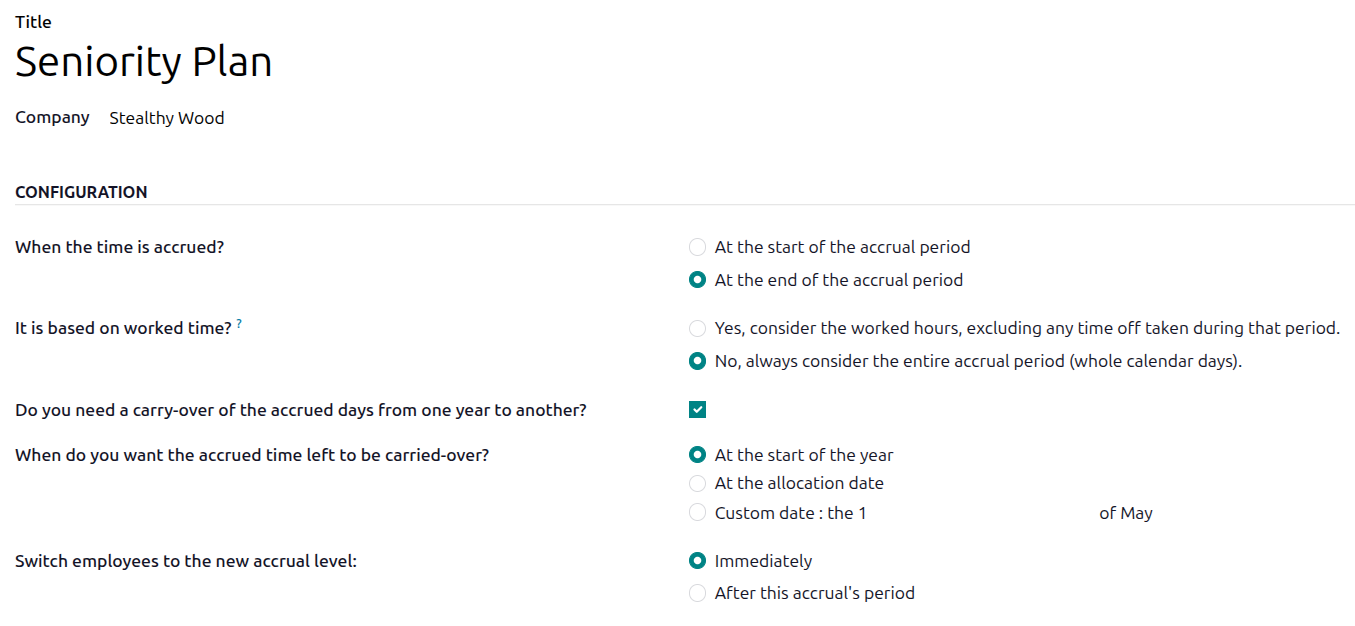
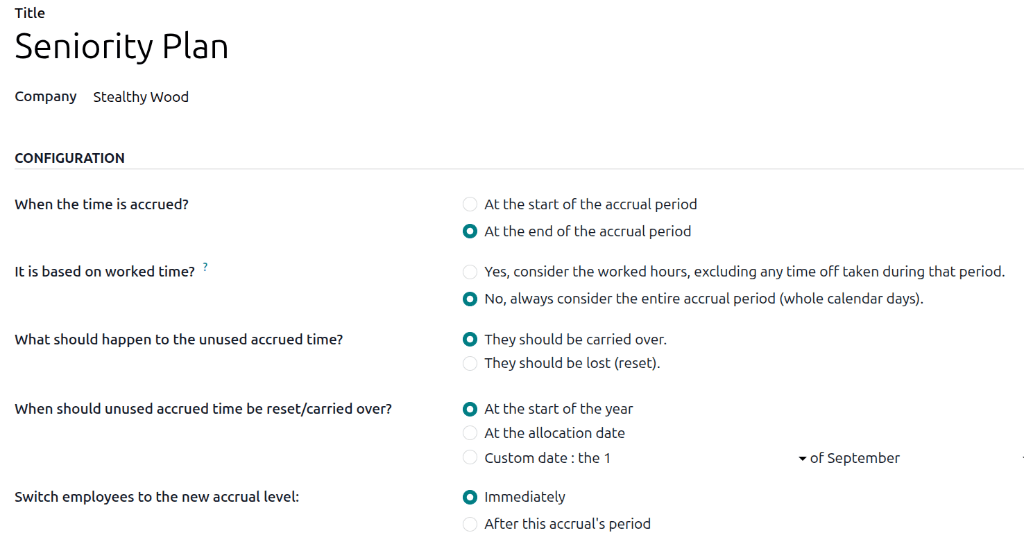
[IMP] Time Off - Accrual Plan update
closes odoo/documentation#20041

X-original-commit: 16e1b3575e4bed29c7f10ebc3ad45dd66001e73e

diff --git a/content/applications/hr/time_off/accrual_plans.rst b/content/applications/hr/time_off/accrual_plans.rst
@@ -29,20 +29,20 @@ Configuration section
 
 Configure the following fields in the *Configuration* section of the form:
 
-- :guilabel:`When the time is accrued?`: Select when the employee begins to accrue time off, either
+- :guilabel:`When the time is accrued`: Select when the employee begins to accrue time off, either
   :guilabel:`At the start of the accrual period` or :guilabel:`At the end of the accrual period`.
-- :guilabel:`It is based on worked time?`: Select how time off accrual is determined. The options
+- :guilabel:`It is based on worked time`: Select how time off accrual is determined. The options
   are:
 
-  - :guilabel:`Yes, consider the worked hours, excluding any time off taken during that period.`:
+  - :guilabel:`Yes, consider the worked hours, excluding any time off taken during that period`:
     Days **not** considered as *worked time* do **not** contribute to the accrual plan in Odoo.
-  - :guilabel:`No, always consider the entire accrual period (whole calendar days).`: Every day is
+  - :guilabel:`No, always consider the entire accrual period (whole calendar days)`: Every day is
     calculated when determining worked time, with no exclusions.
 
   .. example::
      An employee is granted time off from an accrual plan configured to accrue one day of vacation
      for every five days worked. The accrual plan is based on the employee's worked time (the
-     :guilabel:`Yes, consider the worked hours, excluding any time off taken during that period.`
+     :guilabel:`Yes, consider the worked hours, excluding any time off taken during that period`
      option is selected), which means they **only** earn vacation time for the five weekdays they
      work, *not* the entire seven-day week period.
 
@@ -55,8 +55,11 @@ Configure the following fields in the *Configuration* section of the form:
 
      As a result, the employee accrues only three vacation days that month instead of four.
 
-- :guilabel:`Do you need a carry-over of the accrued days from one year to another?`: Select when
-  the employee receives previously earned time. The options are:
+- :guilabel:`What should happen to the unused accrued time`: Select what happens to the unused
+  accrued time. The options are either :guilabel:`They should be carried over` or :guilabel:`They
+  should be lost (reset)`.
+- :guilabel:`When should unused accrued time be reset/carried over`: Select when the employee
+  receives previously accrued time. The options are:
 
   - :guilabel:`At the start of the year`: Select this if the accrual rolls over on January 1 of the
     upcoming year.
@@ -65,6 +68,10 @@ Configure the following fields in the *Configuration* section of the form:
   - :guilabel:`Custom date`: Select this option if neither of the other two options is applicable.
     Once selected, set the date using the two drop-down menus, one for the day and one for the
     month.
+
+- :guilabel:`Switch employees to the new accrual level:` Select when the employee moves to the next
+  accrual level. The options are either :guilabel:`Immediately` or :guilabel:`After this accrual's
+  period`.
 
 .. image:: accrual_plans/accrual-plan-form.png
    :alt: An accrual plan form filled out for a Seniority Plan.
@@ -75,16 +82,14 @@ Milestones
 Milestones must be created for employees to accrue time off from the accrual plan. Each milestone
 determines when and how much time off the employee earns.
 
-To create a new milestone, click the :guilabel:`Create a milestone` button and a *New Milestone*
-pop-up window loads. Then fill out the following sections on the form.
+To create the first milestone, click the :guilabel:`Create a milestone` button, or to create
+*additional* milestones, click the :guilabel:`Add a milestone` button. Both options open a *New
+Milestone* pop-up window. Fill out the following sections on the form.
 
 .. tip::
    Once milestones have been configured, click on a milestone to make edits, click the
    :icon:`fa-trash-o` :guilabel:`(Delete)` icon to delete it, or click :guilabel:`Add a milestone`
    to create additional milestones.
-
-.. image:: accrual_plans/accrual-plan-form.png
-   :alt: An accrual plan form with all the entries filled out.
 
 Accrual level options section
 ~~~~~~~~~~~~~~~~~~~~~~~~~~~~~
@@ -131,7 +136,7 @@ This section determines how much the employee earns, and when.
   to earn the time off. The options are:
 
   - :guilabel:`At allocation creation`: The time off starts accruing immediately.
-  - :guilabel:`After (#) (Time) from the start of the allocation.`: Use the first two fields to set
+  - :guilabel:`After (#) (Time) from the start of the allocation`: Use the first two fields to set
     the time period the employee achieves the milestone. Enter a number in the first field, then set
     the middle field to either :guilabel:`Days`, :guilabel:`Months`, or :guilabel:`Years`.
 
@@ -144,15 +149,15 @@ Carry over options section
 This section determines what happens to any unused time off at the end of the year. Configure the
 following field:
 
-- :guilabel:`After a year, unused time off will be:`: Select :guilabel:`Lost` if any unused time off
+- :guilabel:`After a year, unused time off will be`: Select :guilabel:`Lost` if any unused time off
   is lost, and does **not** carry over to the following year. Select :guilabel:`Carried over` if
   time off is rolled over to the next year. When this option is selected, two additional sections
   appear:
 
-  - :guilabel:`How much time can be carried over:`: Select :guilabel:`Unlimited` if *all* time off
+  - :guilabel:`How much time can be carried over`: Select :guilabel:`Unlimited` if *all* time off
     can be carried over. Select :guilabel:`Up to (#) Day(s)` if there *is* a limit. Enter the total
     number of days the employee can carry over from one year to the next in the blank field.
-  - :guilabel:`Define a carry over validity?`: If there is an expiration date for the carried over
+  - :guilabel:`Define a carry over validity`: If there is an expiration date for the carried over
     time off, enable this option. When enabled, the following appears: :guilabel:`The days carried
     over will be effective for (#) (Days or Months)`. Enter a number in the first field, then set
     the second field to either :guilabel:`Days` or :guilabel:`Months`.
@@ -165,11 +170,11 @@ Cap options section
 
 This section sets limits on total time off earned.
 
-- :guilabel:`Define a yearly cap?`: Enable this option to set a limit on the total amount of time
+- :guilabel:`Define a yearly cap`: Enable this option to set a limit on the total amount of time
   that can be accrued every calendar year. When enabled, the following line appears:
   :guilabel:`Accrual will stop until next carry-over date if accrued time's reach (#) Day(s).` Enter
   the maximum number of days the employee can earn in the number field.
-- :guilabel:`Define a balance cap?`: If there is a maximum amount of time the employee can accrue
+- :guilabel:`Define a balance cap`: If there is a maximum amount of time the employee can accrue
   with this plan, enable this option. When enabled, the following line appears: :guilabel:`The plan
   will be on hold if the balance reach (#) Day(s) of available time.` Enter the maximum number of
   days the employee can have at any given time in the number field. Any time off beyond this
